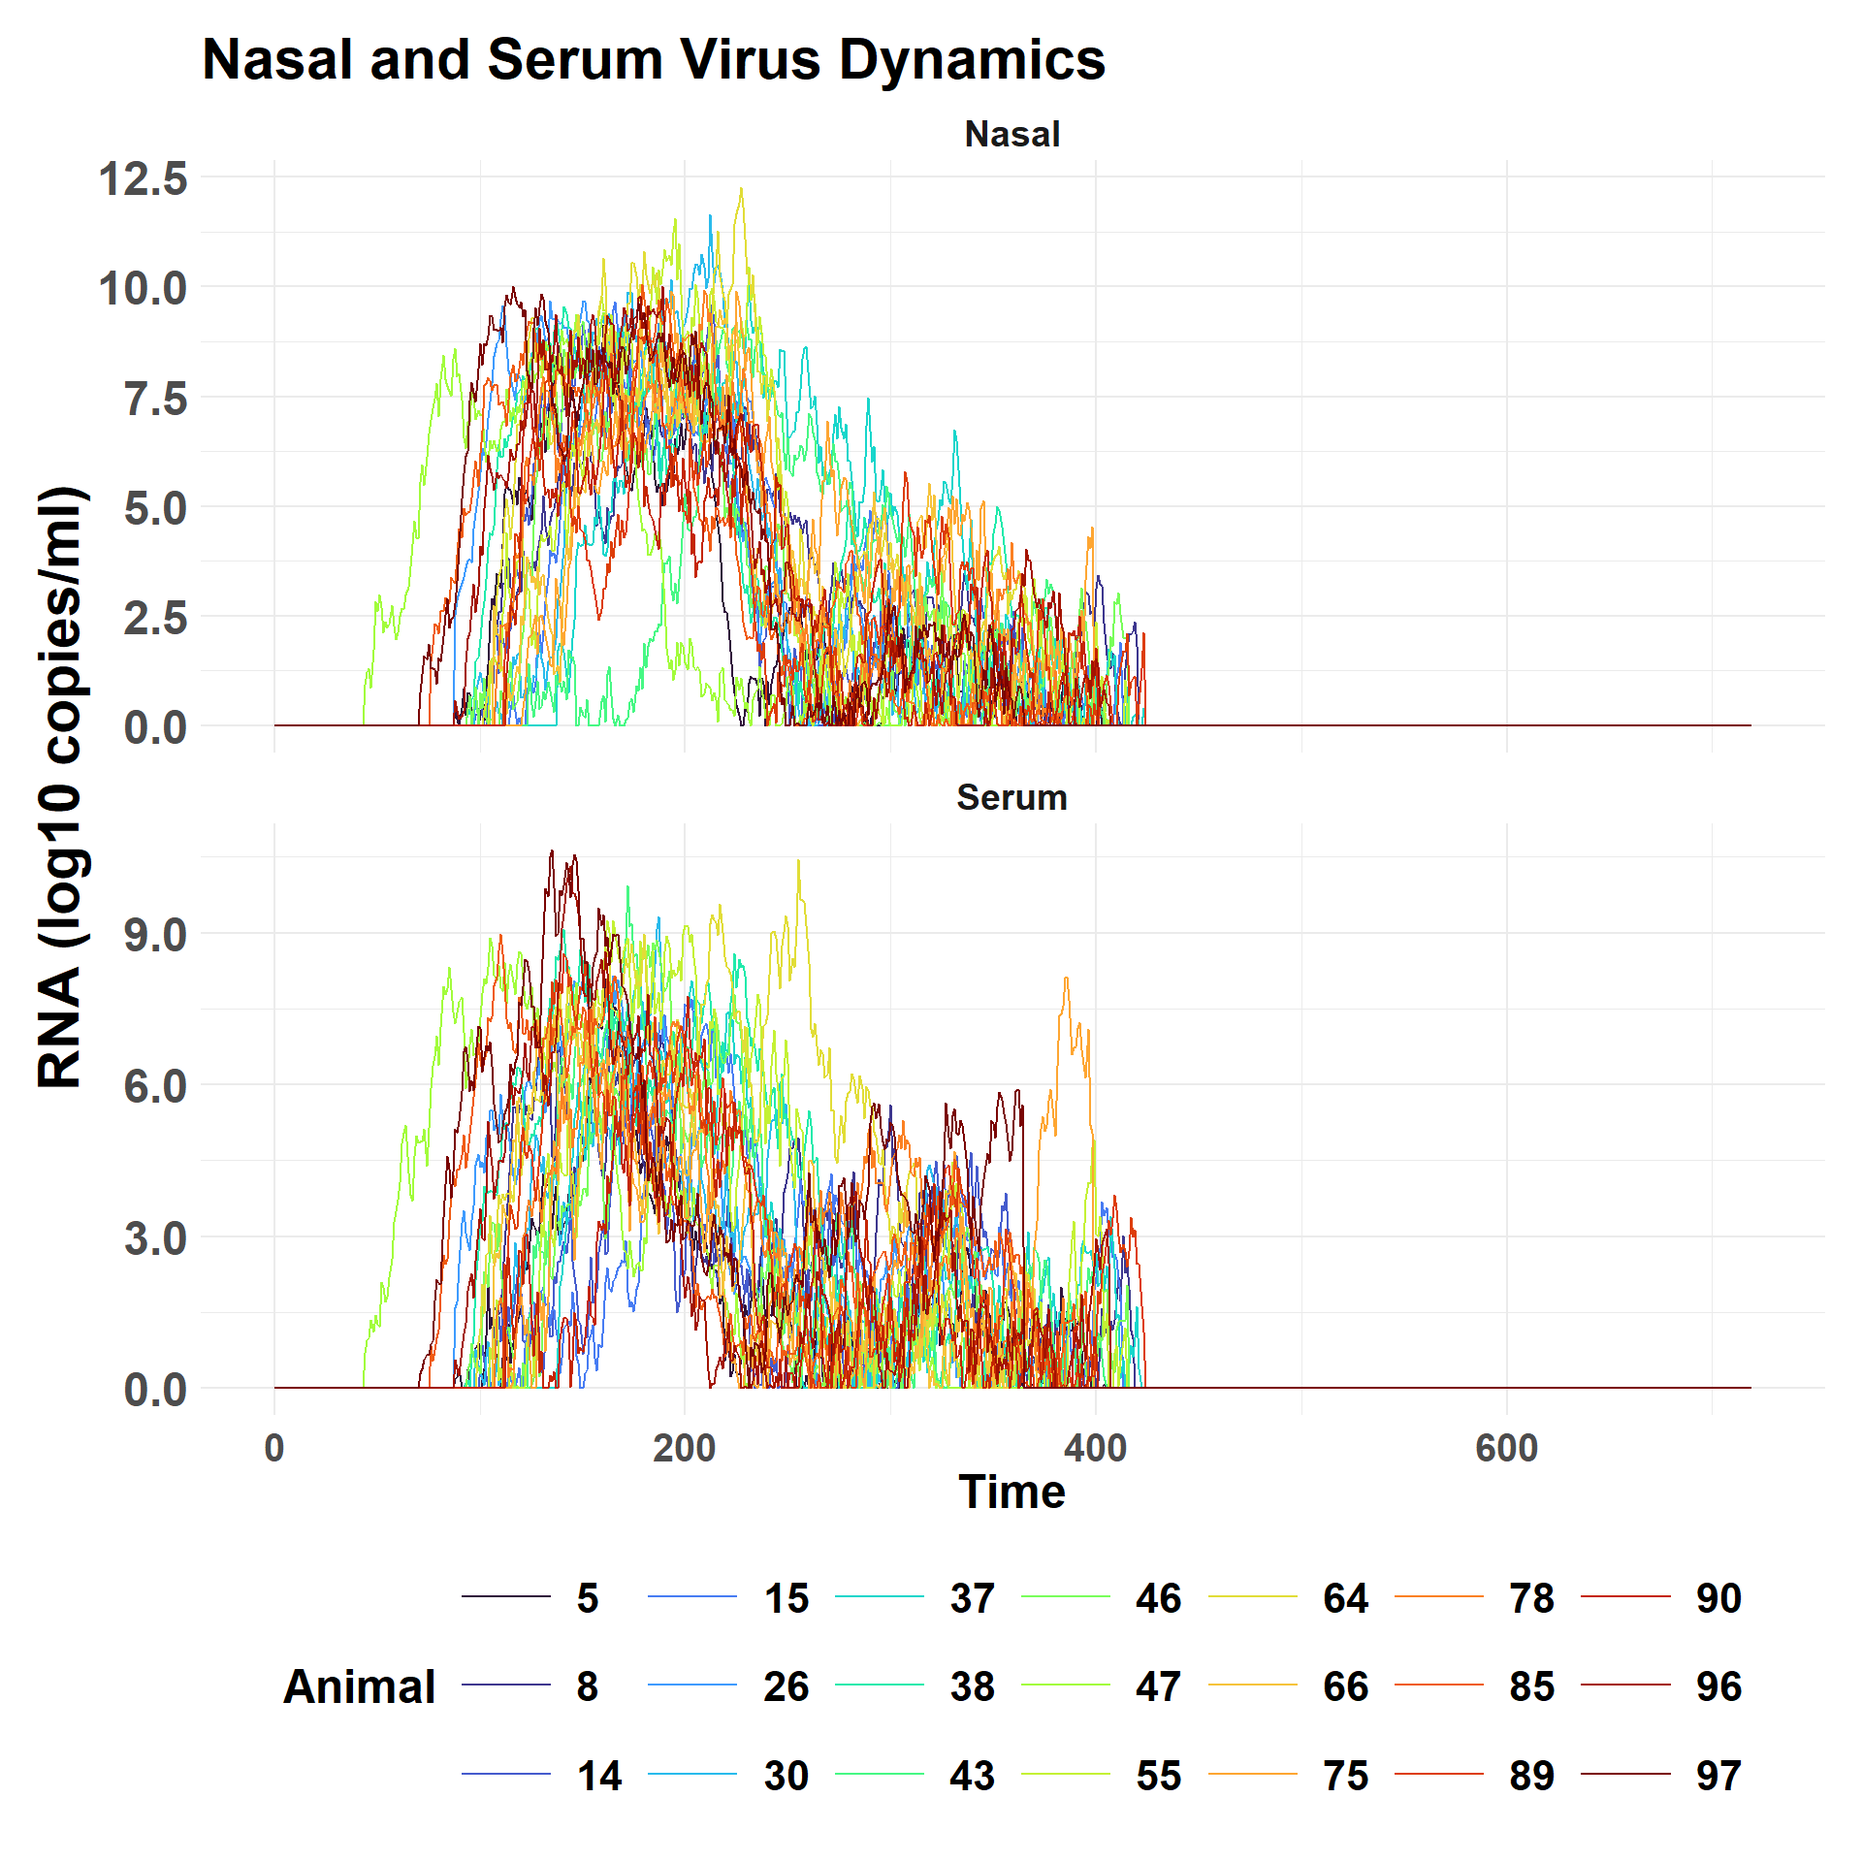
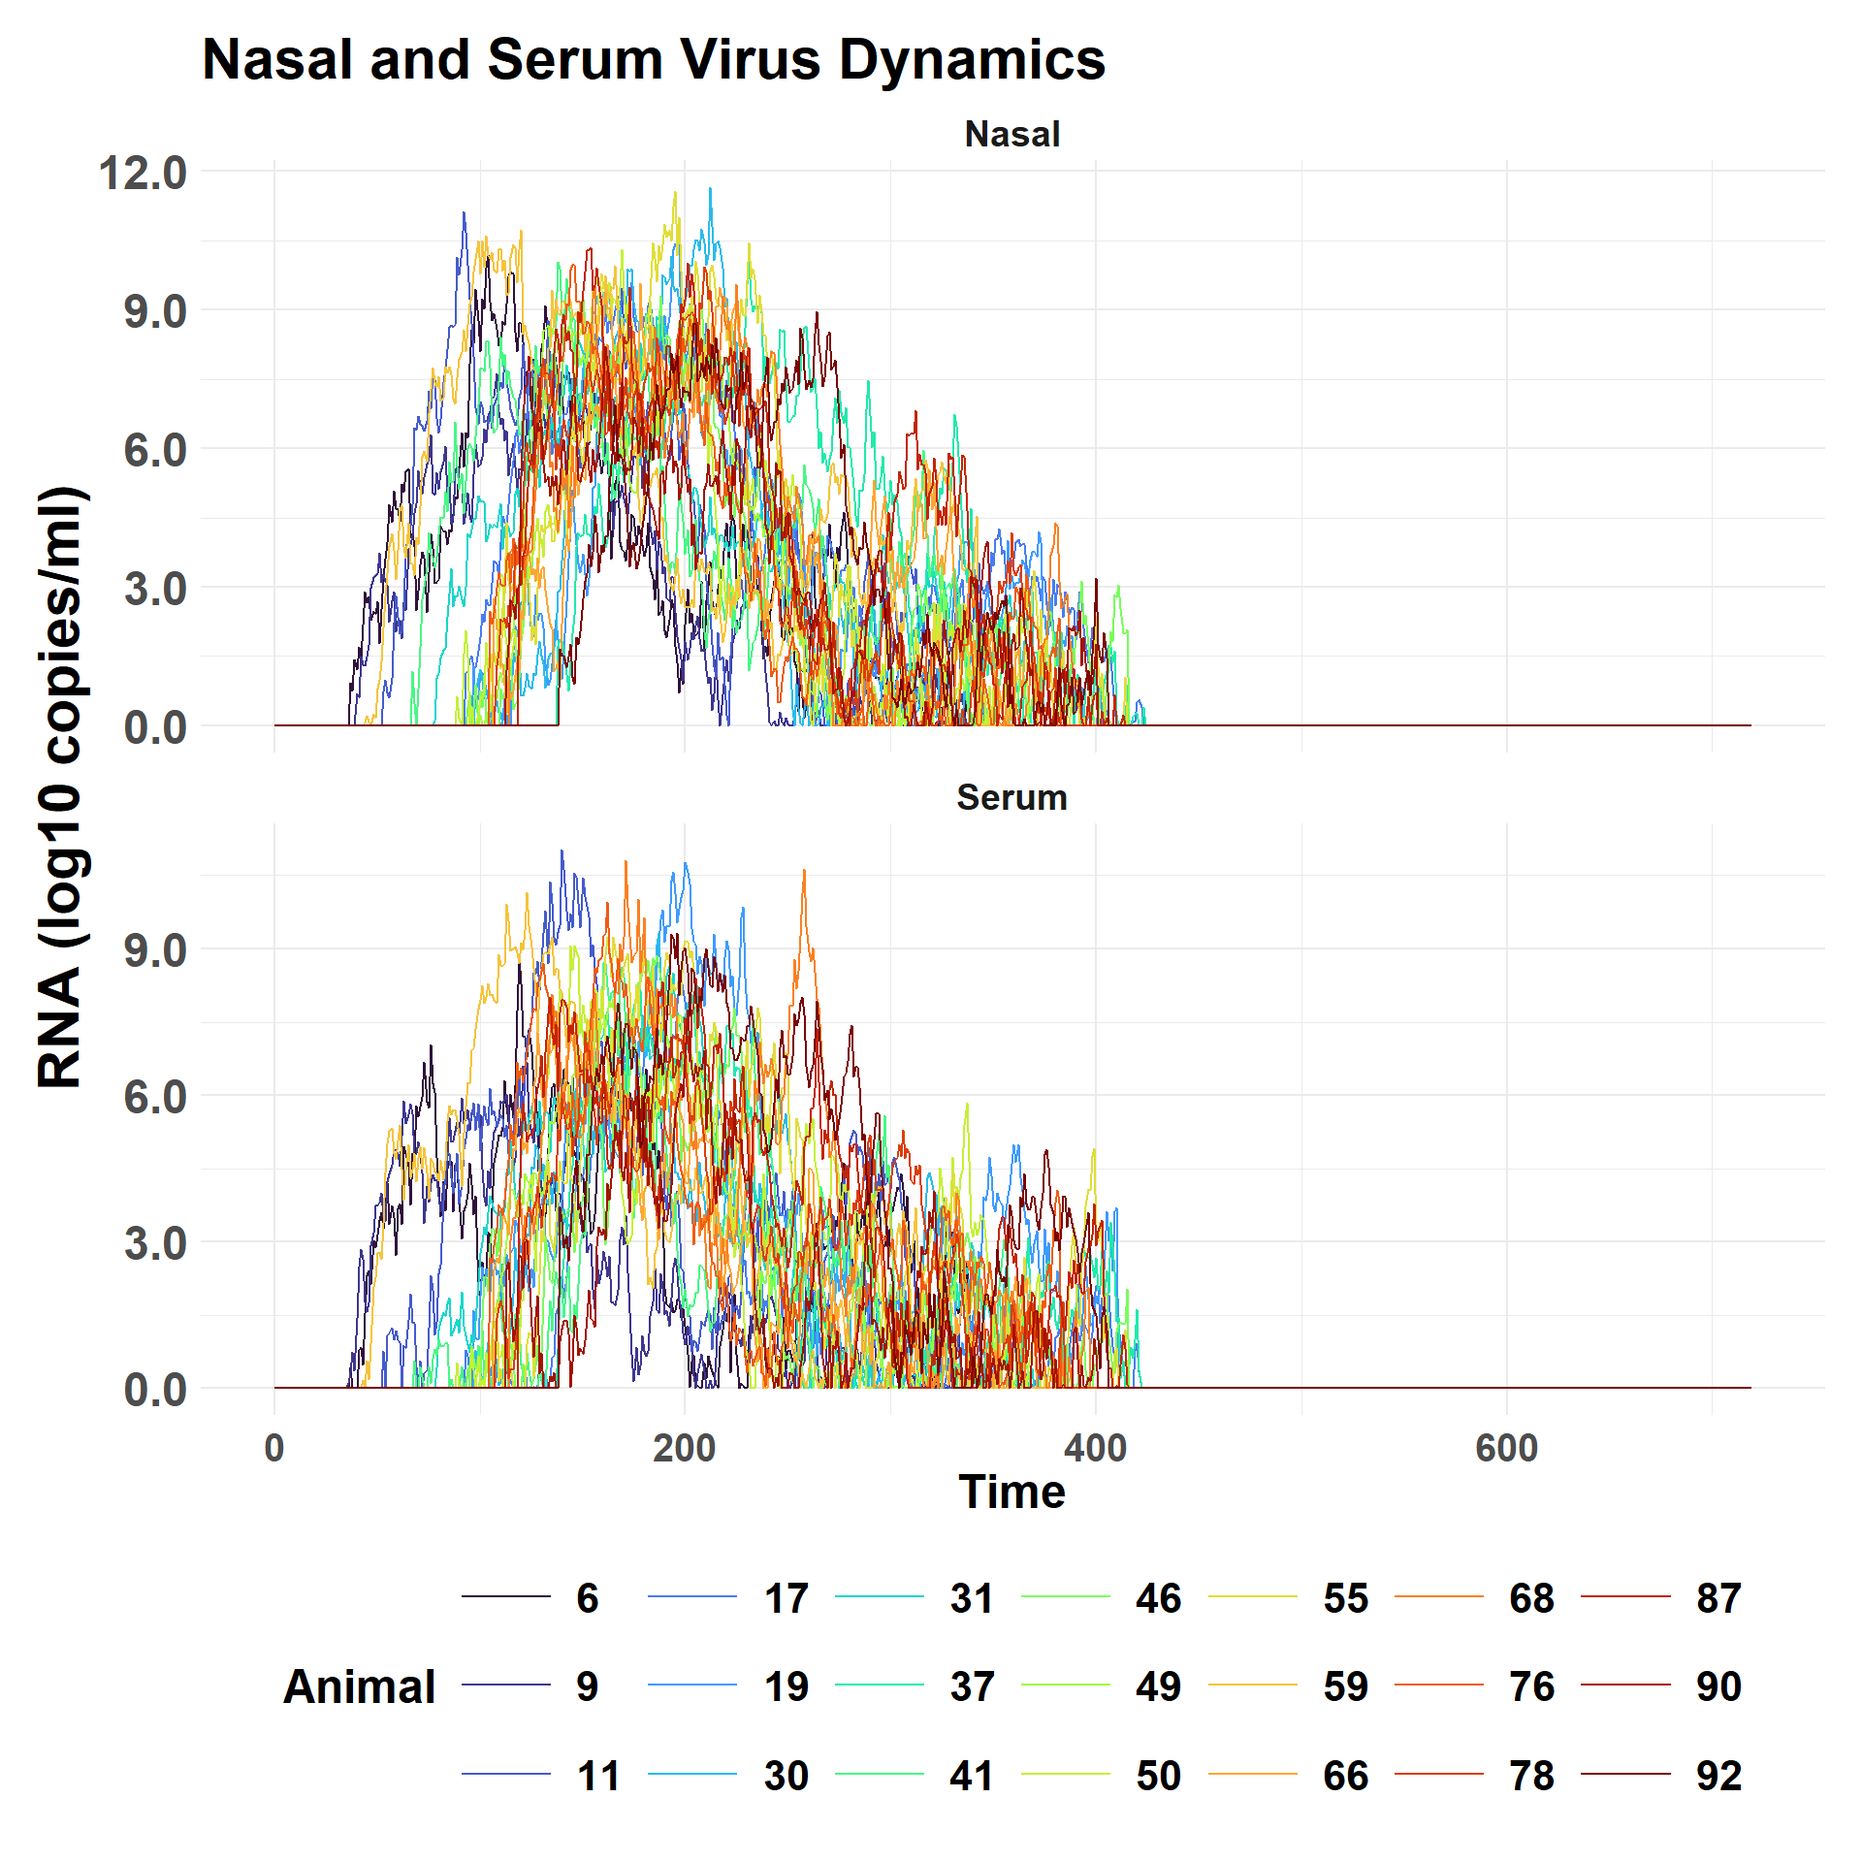
update herd run

diff --git a/docs/herd.html b/docs/herd.html
@@ -242,9 +242,7 @@ pre {
 
 </div>
 <div class="cell">
-<div class="cell-output cell-output-stderr">
-<pre><code>Registered PAT from the provided token</code></pre>
-</div>
+
 </div>
 </section>
 <section id="challengeabm-package" class="level2">
@@ -253,10 +251,10 @@ pre {
 <div class="cell">
 <details open="">
 <summary>Hide code</summary>
-<div class="sourceCode cell-code" id="cb2"><pre class="sourceCode r code-with-copy"><code class="sourceCode r"><span id="cb2-1"><a href="#cb2-1" aria-hidden="true" tabindex="-1"></a><span class="co"># library(remotes)</span></span>
-<span id="cb2-2"><a href="#cb2-2" aria-hidden="true" tabindex="-1"></a><span class="co"># remotes::install_github("geoepi/challengeABM")</span></span>
-<span id="cb2-3"><a href="#cb2-3" aria-hidden="true" tabindex="-1"></a></span>
-<span id="cb2-4"><a href="#cb2-4" aria-hidden="true" tabindex="-1"></a><span class="fu">library</span>(challengeABM)</span></code><button title="Copy to Clipboard" class="code-copy-button"><i class="bi"></i></button></pre></div>
+<div class="sourceCode cell-code" id="cb1"><pre class="sourceCode r code-with-copy"><code class="sourceCode r"><span id="cb1-1"><a href="#cb1-1" aria-hidden="true" tabindex="-1"></a><span class="co"># library(remotes)</span></span>
+<span id="cb1-2"><a href="#cb1-2" aria-hidden="true" tabindex="-1"></a><span class="co"># remotes::install_github("geoepi/challengeABM")</span></span>
+<span id="cb1-3"><a href="#cb1-3" aria-hidden="true" tabindex="-1"></a></span>
+<span id="cb1-4"><a href="#cb1-4" aria-hidden="true" tabindex="-1"></a><span class="fu">library</span>(challengeABM)</span></code><button title="Copy to Clipboard" class="code-copy-button"><i class="bi"></i></button></pre></div>
 </details>
 </div>
 </section>
@@ -266,28 +264,28 @@ pre {
 <div class="cell">
 <details open="">
 <summary>Hide code</summary>
-<div class="sourceCode cell-code" id="cb3"><pre class="sourceCode r code-with-copy"><code class="sourceCode r"><span id="cb3-1"><a href="#cb3-1" aria-hidden="true" tabindex="-1"></a>seed_val <span class="ot">&lt;-</span> <span class="fu">round</span>(<span class="fu">runif</span>(<span class="dv">1</span>, <span class="dv">100</span>, <span class="dv">1000</span>),<span class="dv">0</span>)</span>
-<span id="cb3-2"><a href="#cb3-2" aria-hidden="true" tabindex="-1"></a>seed_val </span></code><button title="Copy to Clipboard" class="code-copy-button"><i class="bi"></i></button></pre></div>
+<div class="sourceCode cell-code" id="cb2"><pre class="sourceCode r code-with-copy"><code class="sourceCode r"><span id="cb2-1"><a href="#cb2-1" aria-hidden="true" tabindex="-1"></a>seed_val <span class="ot">&lt;-</span> <span class="fu">round</span>(<span class="fu">runif</span>(<span class="dv">1</span>, <span class="dv">100</span>, <span class="dv">1000</span>),<span class="dv">0</span>)</span>
+<span id="cb2-2"><a href="#cb2-2" aria-hidden="true" tabindex="-1"></a>seed_val </span></code><button title="Copy to Clipboard" class="code-copy-button"><i class="bi"></i></button></pre></div>
 </details>
 <div class="cell-output cell-output-stdout">
-<pre><code>[1] 195</code></pre>
+<pre><code>[1] 223</code></pre>
 </div>
 <details open="">
 <summary>Hide code</summary>
-<div class="sourceCode cell-code" id="cb5"><pre class="sourceCode r code-with-copy"><code class="sourceCode r"><span id="cb5-1"><a href="#cb5-1" aria-hidden="true" tabindex="-1"></a><span class="fu">set.seed</span>(seed_val)</span></code><button title="Copy to Clipboard" class="code-copy-button"><i class="bi"></i></button></pre></div>
+<div class="sourceCode cell-code" id="cb4"><pre class="sourceCode r code-with-copy"><code class="sourceCode r"><span id="cb4-1"><a href="#cb4-1" aria-hidden="true" tabindex="-1"></a><span class="fu">set.seed</span>(seed_val)</span></code><button title="Copy to Clipboard" class="code-copy-button"><i class="bi"></i></button></pre></div>
 </details>
 </div>
 <p>Run the simulation based using a configuration file with required parameters. Saving a copy for fast reloading of demo results.</p>
 <div class="cell">
 <details open="">
 <summary>Hide code</summary>
-<div class="sourceCode cell-code" id="cb6"><pre class="sourceCode r code-with-copy"><code class="sourceCode r"><span id="cb6-1"><a href="#cb6-1" aria-hidden="true" tabindex="-1"></a>model_result <span class="ot">&lt;-</span> <span class="fu">simulate_within_herd</span>(<span class="fu">here</span>(<span class="st">"config/base_config_fmdv.yaml"</span>),</span>
-<span id="cb6-2"><a href="#cb6-2" aria-hidden="true" tabindex="-1"></a>                                     <span class="at">num_donors =</span> <span class="dv">2</span>,</span>
-<span id="cb6-3"><a href="#cb6-3" aria-hidden="true" tabindex="-1"></a>                                     <span class="at">preclin_infect =</span> <span class="cn">TRUE</span>,</span>
-<span id="cb6-4"><a href="#cb6-4" aria-hidden="true" tabindex="-1"></a>                                     <span class="at">contact_rate =</span> <span class="fl">0.25</span>,</span>
-<span id="cb6-5"><a href="#cb6-5" aria-hidden="true" tabindex="-1"></a>                                     <span class="at">seed =</span> seed_val)</span>
-<span id="cb6-6"><a href="#cb6-6" aria-hidden="true" tabindex="-1"></a></span>
-<span id="cb6-7"><a href="#cb6-7" aria-hidden="true" tabindex="-1"></a><span class="fu">saveRDS</span>(model_result, <span class="fu">here</span>(<span class="st">"local/demo/model_result_herd_2025-06-13.rds"</span>))</span></code><button title="Copy to Clipboard" class="code-copy-button"><i class="bi"></i></button></pre></div>
+<div class="sourceCode cell-code" id="cb5"><pre class="sourceCode r code-with-copy"><code class="sourceCode r"><span id="cb5-1"><a href="#cb5-1" aria-hidden="true" tabindex="-1"></a>model_result <span class="ot">&lt;-</span> <span class="fu">simulate_within_herd</span>(<span class="fu">here</span>(<span class="st">"config/base_config_fmdv.yaml"</span>),</span>
+<span id="cb5-2"><a href="#cb5-2" aria-hidden="true" tabindex="-1"></a>                                     <span class="at">num_donors =</span> <span class="dv">2</span>,</span>
+<span id="cb5-3"><a href="#cb5-3" aria-hidden="true" tabindex="-1"></a>                                     <span class="at">preclin_infect =</span> <span class="cn">TRUE</span>,</span>
+<span id="cb5-4"><a href="#cb5-4" aria-hidden="true" tabindex="-1"></a>                                     <span class="at">contact_rate =</span> <span class="fl">0.25</span>,</span>
+<span id="cb5-5"><a href="#cb5-5" aria-hidden="true" tabindex="-1"></a>                                     <span class="at">seed =</span> seed_val)</span>
+<span id="cb5-6"><a href="#cb5-6" aria-hidden="true" tabindex="-1"></a></span>
+<span id="cb5-7"><a href="#cb5-7" aria-hidden="true" tabindex="-1"></a><span class="fu">saveRDS</span>(model_result, <span class="fu">here</span>(<span class="st">"local/demo/model_result_herd_2025-06-13.rds"</span>))</span></code><button title="Copy to Clipboard" class="code-copy-button"><i class="bi"></i></button></pre></div>
 </details>
 </div>
 <div class="cell">
@@ -297,13 +295,13 @@ pre {
 <div class="cell">
 <details open="">
 <summary>Hide code</summary>
-<div class="sourceCode cell-code" id="cb7"><pre class="sourceCode r code-with-copy"><code class="sourceCode r"><span id="cb7-1"><a href="#cb7-1" aria-hidden="true" tabindex="-1"></a>osf_id <span class="ot">&lt;-</span> osf_project_demo <span class="sc">%&gt;%</span></span>
-<span id="cb7-2"><a href="#cb7-2" aria-hidden="true" tabindex="-1"></a>  <span class="fu">osf_ls_files</span>() <span class="sc">%&gt;%</span></span>
-<span id="cb7-3"><a href="#cb7-3" aria-hidden="true" tabindex="-1"></a>  <span class="fu">filter</span>(name <span class="sc">==</span> <span class="st">"model_result_herd_2025-06-13.rds"</span>) <span class="co"># file to download</span></span>
-<span id="cb7-4"><a href="#cb7-4" aria-hidden="true" tabindex="-1"></a></span>
-<span id="cb7-5"><a href="#cb7-5" aria-hidden="true" tabindex="-1"></a><span class="fu">osf_download</span>(osf_id,</span>
-<span id="cb7-6"><a href="#cb7-6" aria-hidden="true" tabindex="-1"></a>             <span class="at">path =</span> <span class="fu">here</span>(<span class="st">"local/temp"</span>), <span class="co"># where to save</span></span>
-<span id="cb7-7"><a href="#cb7-7" aria-hidden="true" tabindex="-1"></a>             <span class="at">conflicts =</span> <span class="st">"overwrite"</span>)</span></code><button title="Copy to Clipboard" class="code-copy-button"><i class="bi"></i></button></pre></div>
+<div class="sourceCode cell-code" id="cb6"><pre class="sourceCode r code-with-copy"><code class="sourceCode r"><span id="cb6-1"><a href="#cb6-1" aria-hidden="true" tabindex="-1"></a>osf_id <span class="ot">&lt;-</span> osf_project_demo <span class="sc">%&gt;%</span></span>
+<span id="cb6-2"><a href="#cb6-2" aria-hidden="true" tabindex="-1"></a>  <span class="fu">osf_ls_files</span>() <span class="sc">%&gt;%</span></span>
+<span id="cb6-3"><a href="#cb6-3" aria-hidden="true" tabindex="-1"></a>  <span class="fu">filter</span>(name <span class="sc">==</span> <span class="st">"model_result_herd_2025-06-13.rds"</span>) <span class="co"># file to download</span></span>
+<span id="cb6-4"><a href="#cb6-4" aria-hidden="true" tabindex="-1"></a></span>
+<span id="cb6-5"><a href="#cb6-5" aria-hidden="true" tabindex="-1"></a><span class="fu">osf_download</span>(osf_id,</span>
+<span id="cb6-6"><a href="#cb6-6" aria-hidden="true" tabindex="-1"></a>             <span class="at">path =</span> <span class="fu">here</span>(<span class="st">"local/temp"</span>), <span class="co"># where to save</span></span>
+<span id="cb6-7"><a href="#cb6-7" aria-hidden="true" tabindex="-1"></a>             <span class="at">conflicts =</span> <span class="st">"overwrite"</span>)</span></code><button title="Copy to Clipboard" class="code-copy-button"><i class="bi"></i></button></pre></div>
 </details>
 <div class="cell-output-display">
 <div class="kable-table">
@@ -335,8 +333,8 @@ pre {
 </div>
 <details open="">
 <summary>Hide code</summary>
-<div class="sourceCode cell-code" id="cb8"><pre class="sourceCode r code-with-copy"><code class="sourceCode r"><span id="cb8-1"><a href="#cb8-1" aria-hidden="true" tabindex="-1"></a><span class="co"># read save file to environment</span></span>
-<span id="cb8-2"><a href="#cb8-2" aria-hidden="true" tabindex="-1"></a>model_result <span class="ot">&lt;-</span> <span class="fu">readRDS</span>(<span class="fu">here</span>(<span class="st">"local/temp/model_result_herd_2025-06-13.rds"</span>))</span></code><button title="Copy to Clipboard" class="code-copy-button"><i class="bi"></i></button></pre></div>
+<div class="sourceCode cell-code" id="cb7"><pre class="sourceCode r code-with-copy"><code class="sourceCode r"><span id="cb7-1"><a href="#cb7-1" aria-hidden="true" tabindex="-1"></a><span class="co"># read save file to environment</span></span>
+<span id="cb7-2"><a href="#cb7-2" aria-hidden="true" tabindex="-1"></a>model_result <span class="ot">&lt;-</span> <span class="fu">readRDS</span>(<span class="fu">here</span>(<span class="st">"local/temp/model_result_herd_2025-06-13.rds"</span>))</span></code><button title="Copy to Clipboard" class="code-copy-button"><i class="bi"></i></button></pre></div>
 </details>
 </div>
 </section>
@@ -346,7 +344,7 @@ pre {
 <div class="cell">
 <details open="">
 <summary>Hide code</summary>
-<div class="sourceCode cell-code" id="cb9"><pre class="sourceCode r code-with-copy"><code class="sourceCode r"><span id="cb9-1"><a href="#cb9-1" aria-hidden="true" tabindex="-1"></a><span class="fu">plot_individual_virus_loads</span>(model_result, <span class="at">sample_n =</span> <span class="dv">21</span>)</span></code><button title="Copy to Clipboard" class="code-copy-button"><i class="bi"></i></button></pre></div>
+<div class="sourceCode cell-code" id="cb8"><pre class="sourceCode r code-with-copy"><code class="sourceCode r"><span id="cb8-1"><a href="#cb8-1" aria-hidden="true" tabindex="-1"></a><span class="fu">plot_individual_virus_loads</span>(model_result, <span class="at">sample_n =</span> <span class="dv">21</span>)</span></code><button title="Copy to Clipboard" class="code-copy-button"><i class="bi"></i></button></pre></div>
 </details>
 <div class="cell-output-display">
 <p><img src="herd_files/figure-html/unnamed-chunk-8-1.png" class="img-fluid" width="960"></p>
@@ -359,7 +357,7 @@ pre {
 <div class="cell">
 <details open="">
 <summary>Hide code</summary>
-<div class="sourceCode cell-code" id="cb10"><pre class="sourceCode r code-with-copy"><code class="sourceCode r"><span id="cb10-1"><a href="#cb10-1" aria-hidden="true" tabindex="-1"></a><span class="fu">plot_herd_curve</span>(model_result)</span></code><button title="Copy to Clipboard" class="code-copy-button"><i class="bi"></i></button></pre></div>
+<div class="sourceCode cell-code" id="cb9"><pre class="sourceCode r code-with-copy"><code class="sourceCode r"><span id="cb9-1"><a href="#cb9-1" aria-hidden="true" tabindex="-1"></a><span class="fu">plot_herd_curve</span>(model_result)</span></code><button title="Copy to Clipboard" class="code-copy-button"><i class="bi"></i></button></pre></div>
 </details>
 <div class="cell-output-display">
 <p><img src="herd_files/figure-html/unnamed-chunk-9-1.png" class="img-fluid" width="768"></p>
